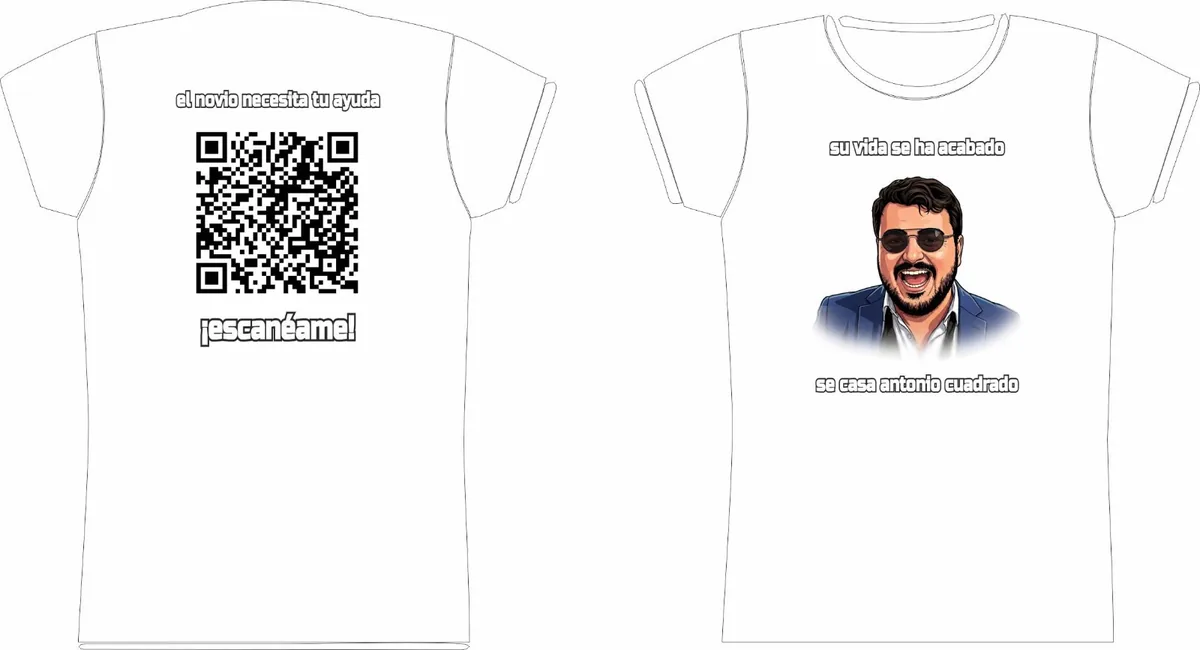
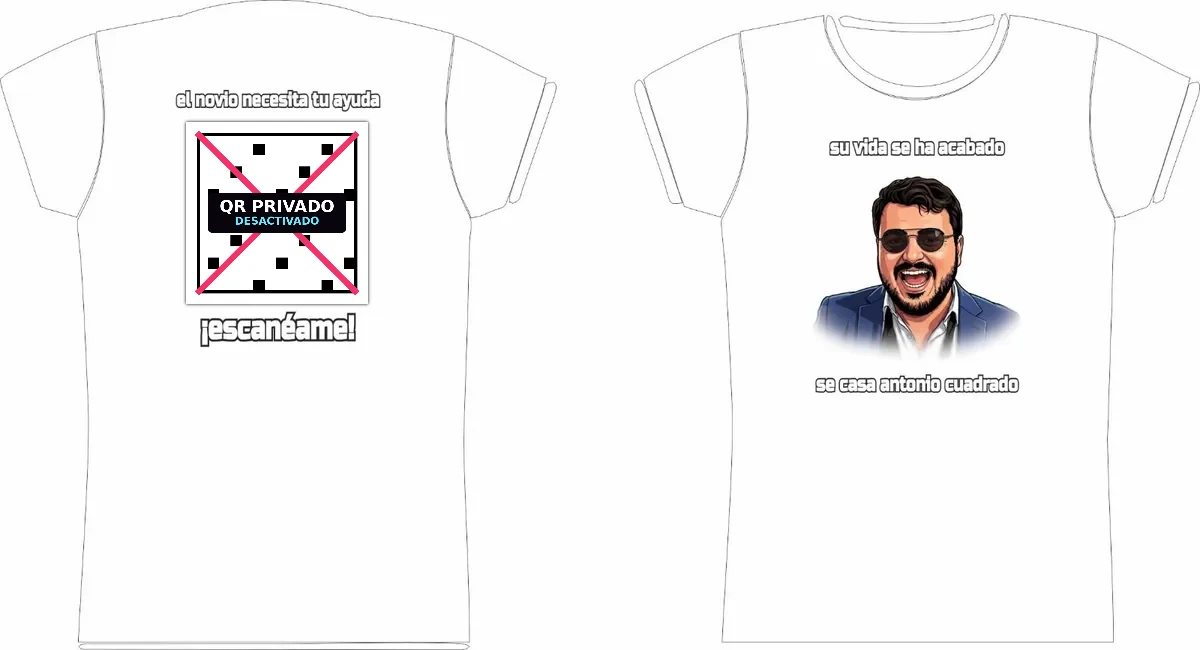
Add files via upload

Changed region(s): [[0.1542, 0.1846, 0.3083, 0.4923]]

diff --git a/index.html b/index.html
@@ -59,7 +59,7 @@
       <span></span><span></span><span></span><i class="sr-only">Abrir menú</i>
     </button>
     <nav id="main-nav" class="main-nav" aria-label="Navegación principal">
-      <a href="demo/">Demo interactiva</a>
+      <a href="#demo">DemoVerse</a>
       <a href="#incluye">Qué incluye</a>
       <a href="#estilos">Estilos</a>
       <a href="#caso">Caso real</a>
@@ -76,19 +76,19 @@
         <h1>No montamos una página.<br><em>Montamos el juego de vuestra despedida.</em></h1>
         <p class="hero-lead">Retos, monedas, nombres secretos, ruleta, música, fotos, minijuegos y una putada final. Todo hecho alrededor de vuestro grupo y listo para abrir desde un QR.</p>
         <div class="hero-actions">
-          <a class="button button-primary" href="demo/" target="_blank" rel="noopener">Probar demo 90 s <span>↗</span></a>
+          <a class="button button-primary" href="#demo">Probar DemoVerse <span>↓</span></a>
           <a class="button button-secondary" href="#calculadora">Calcular presupuesto</a>
         </div>
         <div class="trust-pills" aria-label="Ventajas">
           <span><b>✓</b> Sin instalar apps</span>
           <span><b>✓</b> Diseñada para móvil</span>
-          <span><b>✓</b> Contenido privado</span><span><b>▶</b> Demo sin registro</span>
+          <span><b>✓</b> Contenido privado</span><span><b>▶</b> DemoVerse integrada</span>
         </div>
       </div>
 
       <div class="hero-product reveal" aria-label="Muestra de una experiencia DespedidaVerse">
         <div class="device-shell">
-          <div class="device-top"><i></i><span>antonverse · evento activo</span><b>●</b></div>
+          <div class="device-top"><i></i><span>caso real · experiencia cerrada</span><b>●</b></div>
           <img src="assets/antonverse-dashboard.webp" alt="Panel principal de Antonverse" width="760" height="900">
         </div>
         <article class="hero-float float-left">
@@ -111,18 +111,10 @@
     <section class="demo-section shell" id="demo">
       <div class="section-heading reveal">
         <p class="eyebrow"><span></span> No te lo explicamos: pruébalo</p>
-        <h2>Prueba DespedidaVerse antes de pedir una propuesta</h2>
-        <p>Aquí tienes una muestra rápida. Si quieres sentir el flujo completo, abre <b>DemoVerse Express</b>: nombre, tokens, ruleta, carrito, identidades, recuerdos y desenlace en unos 90 segundos.</p>
+        <h2>Prueba una pequeña DemoVerse aquí mismo</h2>
+        <p>Una muestra deliberadamente reducida para que entiendas el concepto sin salir de esta página: ruleta, tokens, una mini tienda y nombres secretos. Las experiencias reales permanecen privadas.</p>
       </div>
-
-      <div class="demo-express-strip reveal" aria-label="Qué incluye la demo completa">
-        <article><span>01</span><strong>Entra con tu nombre</strong><small>Sin registro ni datos reales</small></article>
-        <article><span>02</span><strong>Gana y gasta tokens</strong><small>Ruleta + tienda + carrito</small></article>
-        <article><span>03</span><strong>Descubre secretos</strong><small>Nombres y archivo</small></article>
-        <article><span>04</span><strong>Abre el final</strong><small>Un desenlace de muestra</small></article>
-      </div>
-
-      <div class="demo-console reveal" id="demo-console">
+<div class="demo-console reveal" id="demo-console">
         <aside class="demo-sidebar">
           <div class="demo-logo"><span>DV</span><strong>DEMOVERSE</strong></div>
           <div class="demo-stat"><small>TOKENS</small><strong id="demo-tokens">5</strong></div>
@@ -190,54 +182,15 @@
         </div>
       </div>
       <p class="demo-note reveal"><b>Esto es solo una muestra.</b> Cada despedida recibe sus propios nombres, mecánicas, diseño, precios, canciones y desenlace.</p>
-      <div class="demo-full-cta demo-full-cta-v16 reveal">
+      <div class="demo-full-cta demo-inline-note reveal">
         <div>
-          <small>DEMOVERSE EXPRESS · SIN REGISTRO</small>
-          <strong>Prueba una mini despedida de principio a fin.</strong>
-          <p>≈ 90 segundos · datos ficticios · tokens · ruleta · carrito · nombres · recuerdos · desenlace</p>
+          <small>DEMOVERSE · MUESTRA REDUCIDA</small>
+          <strong>Lo suficiente para entender la idea. No lo suficiente para copiar una experiencia.</strong>
+          <p>Las webs reales de clientes, sus enlaces, contenidos y accesos permanecen privados.</p>
         </div>
-        <a class="button button-primary" href="demo/" target="_blank" rel="noopener">Entrar en la demo <span>↗</span></a>
+        <a class="button button-primary" href="#contacto">Quiero algo así <span>→</span></a>
       </div>
-    </section>
-
-    <section class="features shell" id="incluye">
-      <div class="section-heading reveal">
-        <p class="eyebrow"><span></span> Un sistema completo, no una landing</p>
-        <h2>Todo lo que puede convertir el fin de semana en una historia</h2>
-      </div>
-      <div class="feature-grid">
-        <article class="feature-card feature-large reveal">
-          <span class="feature-number">01</span><div class="feature-icon">🎯</div>
-          <p class="feature-kicker">GAMIFICACIÓN</p><h3>Retos, tokens y tienda</h3>
-          <p>Diseñamos una economía interna: el grupo gana, pierde y gasta monedas en pruebas, castigos o privilegios.</p>
-          <ul><li>Retos por niveles</li><li>Precios personalizados</li><li>Historial de compras</li><li>Reglas del comité</li></ul>
-          <div class="mini-economy"><div><small>Saldo</small><strong>15</strong></div><div class="mini-progress"><i></i></div><span>FINAL BOSS · 15 TOKENS</span></div>
-        </article>
-        <article class="feature-card reveal"><span class="feature-number">02</span><div class="feature-icon">🔐</div><p class="feature-kicker">SECRETOS</p><h3>Nombres en clave</h3><p>Motes, frases y recuerdos que el grupo debe descubrir para abrir contenido o activar el final.</p><div class="chip-cloud"><span>Peseta</span><span>Il consigliere</span><span>???</span></div></article>
-        <article class="feature-card reveal"><span class="feature-number">03</span><div class="feature-icon">🎡</div><p class="feature-kicker">AZAR</p><h3>Ruletas y decisiones</h3><p>Pruebas, participantes, premios, castigos o equipos elegidos en directo sin discusiones.</p></article>
-        <article class="feature-card reveal"><span class="feature-number">04</span><div class="feature-icon">📸</div><p class="feature-kicker">RECUERDOS</p><h3>Galería y revelaciones</h3><p>Fotos ocultas, memes, vídeos y contenido que aparece cuando vosotros decidáis.</p><div class="photo-pair"><img loading="lazy" src="assets/gallery-pechotes.webp" alt="Ejemplo de imagen personalizada"><img loading="lazy" src="assets/gallery-parlita.webp" alt="Ejemplo de imagen personalizada"></div></article>
-        <article class="feature-card reveal"><span class="feature-number">05</span><div class="feature-icon">🎵</div><p class="feature-kicker">BANDA SONORA</p><h3>Radio, himnos y vídeos</h3><p>Canciones del grupo, versiones, audios, TikTok y clips reproducibles desde la propia experiencia.</p></article>
-        <article class="feature-card reveal"><span class="feature-number">06</span><div class="feature-icon">💥</div><p class="feature-kicker">DESENLACE</p><h3>Sorpresa final</h3><p>Una revelación animada y preparada a medida: tatuaje, actividad, vídeo, mensaje o cualquier locura viable.</p><button class="text-button" type="button" data-open-final-preview>Ver ejemplo <span>↗</span></button></article>
-        <article class="feature-card reveal"><span class="feature-number">07</span><div class="feature-icon">🎮</div><p class="feature-kicker">EXTENSIONES</p><h3>Juegos e integraciones</h3><p>Minijuegos propios, cartas, TikTok, mapas, formularios o enlaces externos integrados con coherencia.</p></article>
-        <article class="feature-card reveal"><span class="feature-number">08</span><div class="feature-icon">📺</div><p class="feature-kicker">PAQUETE LIVE</p><h3>Panel compartido</h3><p>Para proyectos avanzados: clasificación, equipos, pruebas con fotos, panel del comité y estado sincronizado.</p><small class="feature-disclaimer">Requiere backend y se presupuesta según alcance.</small></article>
-      </div>
-    </section>
-
-    <section class="styles-section" id="estilos">
-      <div class="shell styles-wrap">
-        <div class="styles-copy reveal">
-          <p class="eyebrow"><span></span> No todas las despedidas se parecen</p>
-          <h2>Elegimos un universo visual que encaje con vuestro grupo</h2>
-          <p>Antonverse es una estética. Vuestra experiencia puede ser elegante, deportiva, mafiosa, festivalera o completamente nueva.</p>
-          <div class="style-picker" role="list" aria-label="Estilos visuales">
-            <button class="active" type="button" data-style="canalla" role="listitem"><i></i><span><b>Canalla</b><small>Neón, humor y caos</small></span></button>
-            <button type="button" data-style="elegante" role="listitem"><i></i><span><b>Elegante</b><small>Negro, crema y dorado</small></span></button>
-            <button type="button" data-style="videojuego" role="listitem"><i></i><span><b>Videojuego</b><small>Niveles y logros</small></span></button>
-            <button type="button" data-style="mafia" role="listitem"><i></i><span><b>Mafia</b><small>Expedientes y misiones</small></span></button>
-            <button type="button" data-style="reality" role="listitem"><i></i><span><b>Reality</b><small>Votos y confesionario</small></span></button>
-            <button type="button" data-style="festival" role="listitem"><i></i><span><b>Festival</b><small>Cartel y escenarios</small></span></button>
-          </div>
-        </div>
+    </div>
         <div class="style-preview theme-canalla reveal" id="style-preview">
           <div class="style-browser"><div><i></i><i></i><i></i><span id="style-url">despedidaverse.com/vuestro-grupo</span></div>
             <section>
@@ -257,7 +210,7 @@
       <div class="case-heading reveal">
         <p class="eyebrow"><span></span> Caso real · proyecto piloto</p>
         <h2>Antonverse: una despedida convertida en plataforma</h2>
-        <p>No es un concepto inventado para vender. La primera experiencia nació para una despedida real y fue creciendo con el grupo hasta convertirse en el producto que ofrecemos.</p>
+        <p>No es un concepto inventado para vender. La primera experiencia nació para una despedida real y fue creciendo con el grupo hasta convertirse en el producto que ofrecemos. <strong>La experiencia original permanece cerrada y no se publica.</strong></p>
       </div>
       <div class="case-grid">
         <div class="case-media reveal">
@@ -270,7 +223,7 @@
           <h3>Qué se construyó</h3>
           <ul class="case-list"><li>Identidad visual y narrativa propia</li><li>Tienda de retos con tokens y niveles</li><li>Nombres en clave con desbloqueo final</li><li>Ruleta, galería, radio, TikTok y Tute IA</li><li>Cuenta atrás, apertura y cierre programados</li><li>QR integrado en la camiseta del grupo</li><li>Optimización específica para móvil</li></ul>
           <div class="honest-proof"><span>✓</span><p><strong>Prueba social honesta.</strong> Es un proyecto propio y probado; no publicamos testimonios inventados ni cifras falsas.</p></div>
-          <a class="button button-primary" href="https://elptowalter.github.io/antonverse/" target="_blank" rel="noopener">Abrir Antonverse <span>↗</span></a>
+          <span class="private-case-badge">🔒 Experiencia original cerrada · acceso privado</span>
         </div>
       </div>
     </section>
@@ -301,8 +254,8 @@
 
         <div class="qr-photo-stage">
           <button class="qr-photo-main" type="button" data-lightbox="assets/antonverse-camiseta-qr.webp" aria-label="Ampliar camiseta de Antonverse con QR">
-            <img loading="lazy" src="assets/antonverse-camiseta-qr.webp" alt="Camiseta real de Antonverse con el QR de acceso impreso en la espalda" width="1152" height="1536">
-            <span>ESPALDA · QR REAL</span>
+            <img loading="lazy" src="assets/antonverse-camiseta-qr.webp" alt="Camiseta real de Antonverse con el acceso QR original protegido para la muestra pública" width="1152" height="1536">
+            <span>ESPALDA · QR ORIGINAL PROTEGIDO</span>
           </button>
           <button class="qr-photo-mini qr-photo-front" type="button" data-lightbox="assets/antonverse-camiseta-frontal.webp" aria-label="Ampliar frontal de la camiseta de Antonverse">
             <img loading="lazy" src="assets/antonverse-camiseta-frontal.webp" alt="Parte frontal de la camiseta real de Antonverse" width="1152" height="1536">
@@ -331,7 +284,7 @@
             <ul><li>Camiseta</li><li>Cartel</li><li>Acreditación</li><li>Pegatina</li><li>Invitación</li></ul>
           </div>
           <button type="button" data-lightbox="assets/antonverse-camiseta-diseno.webp" aria-label="Ampliar diseño frontal y trasero de la camiseta">
-            <img loading="lazy" src="assets/antonverse-camiseta-diseno.webp" alt="Diseño frontal y trasero de la camiseta de Antonverse con QR" width="1200" height="650">
+            <img loading="lazy" src="assets/antonverse-camiseta-diseno.webp" alt="Diseño frontal y trasero de la camiseta de Antonverse con el QR original desactivado" width="1200" height="650">
           </button>
         </article>
       </div>
@@ -346,6 +299,12 @@
           <source src="assets/antonverse-teaser.mp4" type="video/mp4">
         </video>
       </div>
+
+      
+        <div class="case-privacy-note reveal">
+          <span>🔒 PRIVACIDAD DEL CASO REAL</span>
+          <p>Antonverse se muestra únicamente como referencia visual. No publicamos su URL funcional, códigos de acceso, QR originales ni archivos internos.</p>
+        </div>
 
       <div class="testimonial-policy reveal">
         <span>PRUEBA SOCIAL, SIN INVENTAR</span>
@@ -523,7 +482,7 @@
   <footer class="site-footer">
     <div class="shell footer-grid">
       <div><img src="assets/logo-final.webp" alt="DespedidaVerse Studio" width="320" height="80"><p>Experiencias web personalizadas para despedidas, cumpleaños y eventos privados.</p></div>
-      <div><strong>Explorar</strong><a href="demo/">Demo interactiva</a><a href="#asi-se-vive">Caso real</a><a href="#precios">Precios</a><a href="#contacto">Contacto</a></div>
+      <div><strong>Explorar</strong><a href="#demo">DemoVerse</a><a href="#asi-se-vive">Caso real</a><a href="#precios">Precios</a><a href="#contacto">Contacto</a></div>
       <div><strong>Información</strong><a href="https://despedidaverse.com/cliente">Área de cliente</a><a href="https://despedidaverse.com/onboarding">Entrega de material</a><a href="https://despedidaverse.com/privacidad">Privacidad</a><a href="https://despedidaverse.com/condiciones">Condiciones</a><button type="button" id="install-app" hidden>Instalar web</button></div>
       <div><strong>Contacto</strong><a href="mailto:fdez.edu00@gmail.com">Correo</a><span>España · Servicio online</span><span>Precios mostrados con IVA incluido</span></div>
     </div>

diff --git a/styles.css b/styles.css
@@ -242,3 +242,24 @@ dialog{max-width:min(900px,calc(100% - 24px));padding:0;border:1px solid rgba(25
 .demo-full-cta-v16 p{margin:5px 0 0;color:var(--muted);font-size:.74rem}
 @media(max-width:850px){.demo-express-strip{grid-template-columns:1fr 1fr}}
 @media(max-width:520px){.demo-express-strip{grid-template-columns:1fr}.demo-express-strip article{padding:14px}}
+
+/* ===== v17 · Private Case Freeze ===== */
+.private-case-badge{
+  display:inline-flex;align-items:center;gap:8px;
+  padding:12px 14px;border:1px solid rgba(102,234,255,.22);
+  border-radius:14px;background:rgba(102,234,255,.055);
+  color:#c9f7ff;font-size:.78rem;font-weight:850;
+}
+.case-privacy-note{
+  margin-top:18px;padding:17px 18px;border-radius:18px;
+  border:1px solid rgba(255,255,255,.11);
+  background:linear-gradient(145deg,rgba(10,7,15,.94),rgba(16,9,24,.94));
+}
+.case-privacy-note span{
+  display:block;color:var(--cyan);font-size:.66rem;
+  font-weight:950;letter-spacing:.11em;
+}
+.case-privacy-note p{
+  margin:7px 0 0;color:var(--muted);font-size:.82rem;line-height:1.55;
+}
+.demo-inline-note p{margin:5px 0 0;color:var(--muted);font-size:.76rem}

diff --git a/sw.js b/sw.js
@@ -1,4 +1,4 @@
-const CACHE = 'despedidaverse-v16-demoverse-express';
+const CACHE = 'despedidaverse-v17-private-case-freeze';
 
 const ASSETS = [
   '/',
@@ -18,10 +18,6 @@ const ASSETS = [
   '/gracias',
   '/gracias.html',
   '/offline.html',
-  '/demo/',
-  '/demo/index.html',
-  '/demo/app.css',
-  '/demo/app.js',
   '/assets/logo-final.webp',
   '/assets/favicon.png',
   '/assets/app-icon-192.png',

diff --git a/README.md b/README.md
@@ -60,3 +60,12 @@ Si `appsScriptUrl` está vacío, los formularios preparan un correo a `fdez.edu0
 - Progreso en 4 hitos y desenlace final.
 - CTA final directo a solicitud de propuesta.
 - La mini-demo de la home se mantiene como teaser y enlaza a la demo completa.
+
+
+## V17 · Private Case Freeze
+- Antonverse deja de tener cualquier enlace público desde la web comercial.
+- Se identifica expresamente como experiencia original cerrada.
+- Los QR reales mostrados en camiseta/diseño han sido sustituidos dentro de las propias imágenes por paneles no funcionales.
+- Se elimina `/demo/` y la DemoVerse Express separada.
+- Solo queda la DemoVerse compacta integrada en la home.
+- La web comercial no publica URL funcional, códigos, QR originales ni archivos internos de Antonverse.
